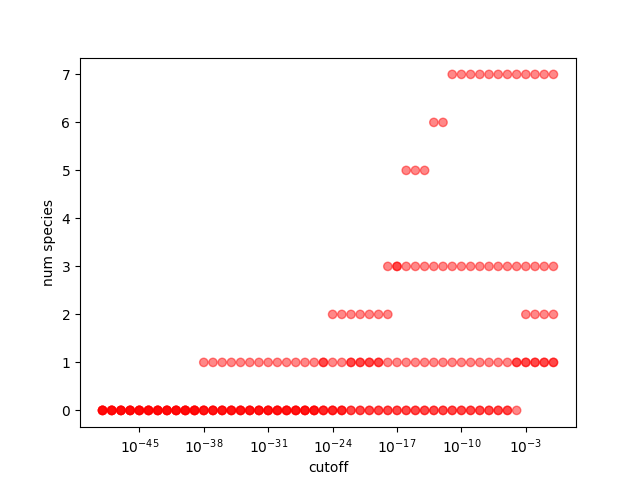
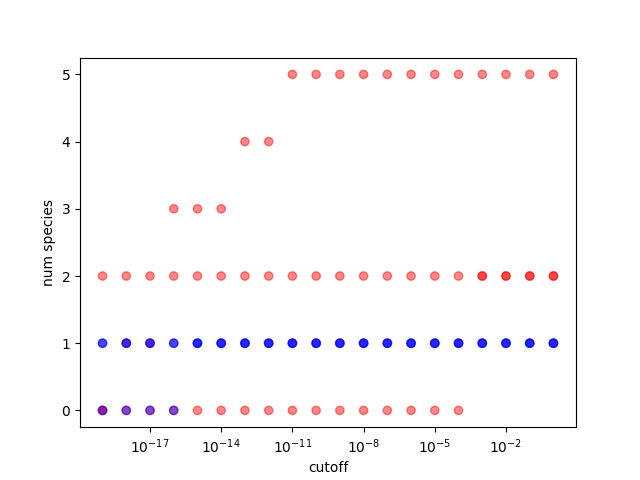
readme updates

diff --git a/paralogs.py b/paralogs.py
@@ -42,7 +42,7 @@ def filter_paralogs(blast_entries, cutoff):
 
 # ik i can make a utility fn for this, i will at some point (probably)
 fsing_entries = []
-# sing_entries = []
+sing_entries = []
 
 # debug
 # entries.append([{
@@ -71,22 +71,22 @@ for gene in fsing:
 # exit(1)
 
 # test with 100 first (before commiting probs an hour to run this)
-# sing = get_singletons(database_fp)[:100]
-# print(len(sing))
+sing = get_singletons(database_fp)[:100]
+print(len(sing))
 
-# for gene in sing:
-#   (paralogs, paralog_sp) = find_paralogs(gene)
+for gene in sing:
+  (paralogs, paralog_sp) = find_paralogs(gene)
 
-#   if paralog_sp > 0:
-#     sing_entries.append(paralogs)
+  if paralog_sp > 0:
+    sing_entries.append(paralogs)
 
-#   print(paralogs, paralog_sp)
+  print(paralogs, paralog_sp)
 
 data_x = []
 data_y = []
 colours = []
 
-for i in reversed(range(0, 50)):
+for i in reversed(range(0, 20)):
   cutoff = 10 ** -i
 
   for entry in fsing_entries:
@@ -98,14 +98,14 @@ for i in reversed(range(0, 50)):
     colours.append("#ff000077")
     # colours.append("#0000ff77")
 
-  # for entry in sing_entries:
-  #   paralogs = filter_paralogs(entry, cutoff)
-  #   paralog_sp = list(set(map(lambda e: e["query"].split("_")[0], paralogs)))
+  for entry in sing_entries:
+    paralogs = filter_paralogs(entry, cutoff)
+    paralog_sp = list(set(map(lambda e: e["query"].split("_")[0], paralogs)))
 
-  #   data_x.append(cutoff)
-  #   data_y.append(len(paralog_sp))
-  #   # colours.append("#ff000077")
-  #   colours.append("#0000ff77")
+    data_x.append(cutoff)
+    data_y.append(len(paralog_sp))
+    # colours.append("#ff000077")
+    colours.append("#0000ff77")
 
 weird_ones = []
 

diff --git a/README.md b/README.md
@@ -2,25 +2,37 @@
 
 All the required data for scripts to run.
 
-- /absense
-- /blast
-- /busco
-- /fasta
-- drosophilaDatabase_neop
-- orthogroups.txt
-- sequence_ids.txt
-- species_ids.txt
+- **/absense**
+  - Bitscore, distances, and lengths files
+- **/blast**
+  - Self vs self blast for all species
+- **/busco**
+  - Dmel vs busco and busco v dmel blast files
+- **/fasta**
+  - Gene sequences in all species
+- **drosophilaDatabase_neop**
+  - Gene database (singletons, duplicable, rate)
+- **orthogroups.txt**
+  - Orthofinder orthogroups file
+- **sequence_ids.txt**
+  - Orthofinder gene ids file
+- **species_ids.txt**
+  - Orthofinder species ids file
 
 ## out
 
 All the script outputs.
 
-- /absense
-- /gprofiler
-- /plots
-- busco_groups.txt
-- (absense_example.png - temp)
-- (paralogs.txt - temp)
+- **/absense**
+  - Absense results
+- **/gprofiler**
+  - Gprofiler results
+- **/plots**
+  - Various plots from different scripts
+- **busco_groups.txt**
+  - Busco vs dmel reciprocal best hits -> orthogroups containing those genes
+- **absense_example.png - temp**
+- **paralogs.txt - temp**
 
 ## scripts
 
@@ -39,6 +51,7 @@ All the scripts.
 
 ## misc
 
+- NOTE: not all scripts from the old repo have been refactored yet! - in particular the absesnse stuff
 - TODO: ask about the boxplot stuff
 - TODO: ask about the database
 - TODO: list required libs somewhere (is there a python ver of package.json?)
